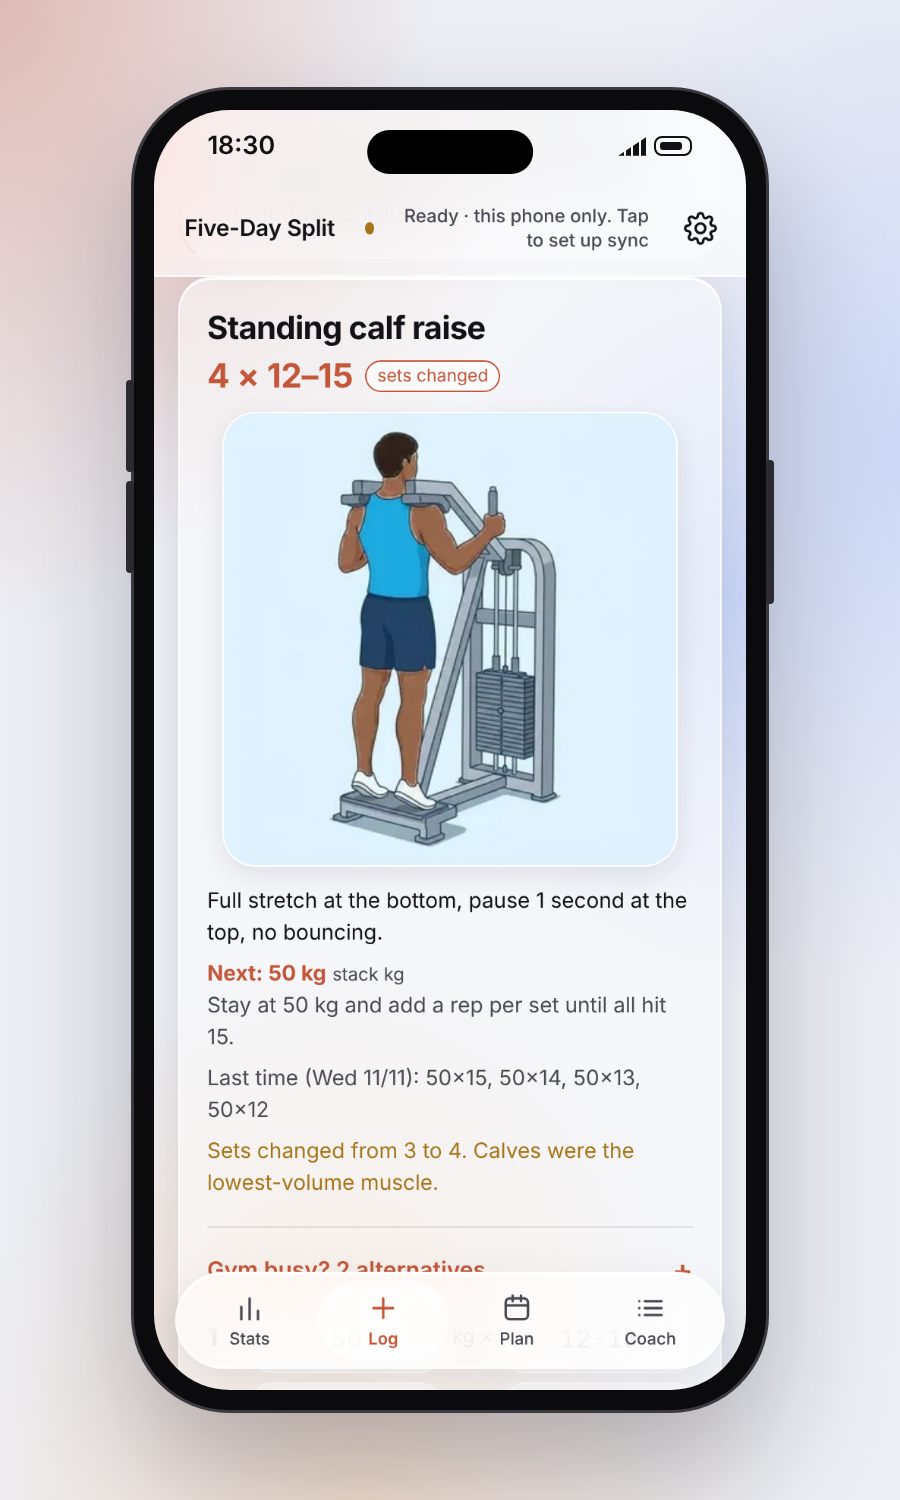
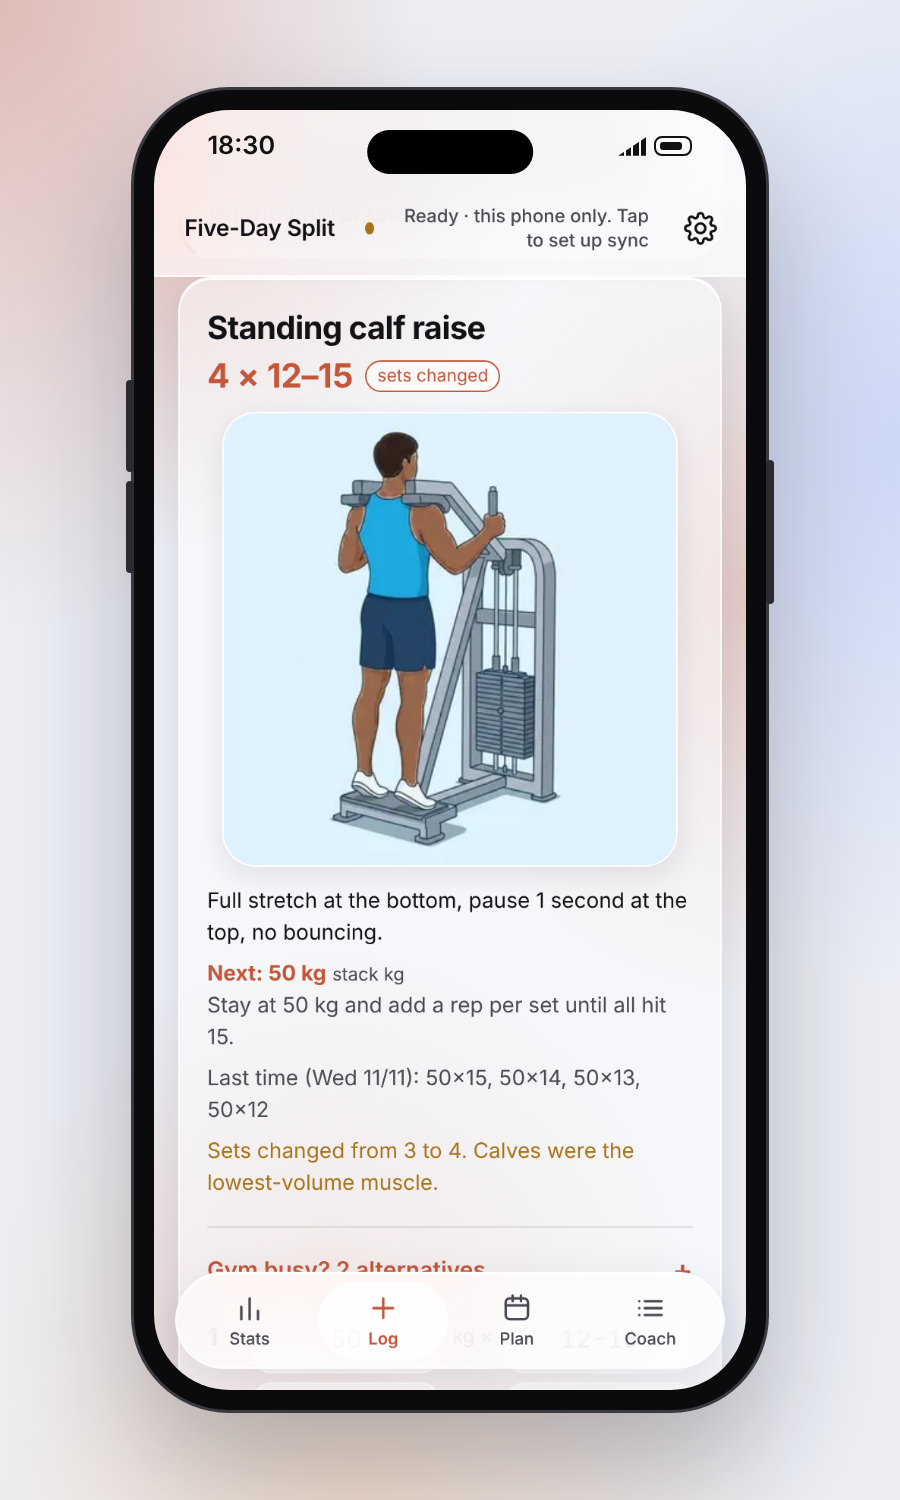
Liquid Glass: accent-coloured background gradient in every mode
Black and Light now use a gradient built from the selected accent
instead of fixed tints. Contrast test now covers all five accents;
dark muted text lightened to keep 4.5:1 with Graphite.

Claude-Session: https://claude.ai/code/session_01G4zxRqEfTkFnjpAiDAwh36

Changed region(s): [[0.7778, 0.2453, 0.84, 0.552]]

diff --git a/index.html b/index.html
@@ -10,7 +10,7 @@
 <meta name="apple-mobile-web-app-capable" content="yes"><meta name="mobile-web-app-capable" content="yes">
 <meta name="apple-mobile-web-app-title" content="Split"><meta name="apple-mobile-web-app-status-bar-style" content="default">
 <meta name="theme-color" id="tc" content="#faf9f5">
-<script src="theme.js?v=2026-11-18.124001"></script>
+<script src="theme.js?v=2026-11-18.124237"></script>
 <style>
 /* Layout: one narrow column, sticky header, bottom tab bar. Palette: graphite with indigo accent; heat uses its own red-to-green scale. */
 /* Look: warm paper, clay accent, serif display + system sans, quiet hairline cards (follows the iPhone light/dark setting) */
@@ -328,15 +328,15 @@ header .in h1{flex:none;white-space:nowrap}header .in #sync{flex:1 1 auto;min-wi
 html,html[data-scheme="light"]{--disp:var(--sans);--radius-card:22px;--radius-pill:999px;
   --bg:#eceef4;--surface:#fff;--ink:#121216;--muted:#4a4a53;--line:rgba(20,20,45,.10);--inset:rgba(255,255,255,.55);
   --glass:rgba(255,255,255,.52);--glass-bar:rgba(255,255,255,.66);--glass-edge:rgba(255,255,255,.78);--glass-hi:rgba(255,255,255,.95);--glass-sel:rgba(255,255,255,.72);--glass-shade:rgba(28,30,60,.10);
-  --wash-1:color-mix(in srgb,var(--acc,#c4573a) 34%,transparent);--wash-2:rgba(96,140,255,.26);--wash-3:rgba(255,186,120,.34);
+  --wash-1:color-mix(in srgb,var(--acc,#c4573a) 40%,transparent);--wash-2:color-mix(in srgb,var(--acc-clay,#c96442) 26%,transparent);--wash-3:color-mix(in srgb,color-mix(in srgb,var(--acc,#c4573a) 55%,#fff) 45%,transparent);
   --idle:rgba(20,20,45,.07);--body:rgba(20,20,45,.10);--blur:blur(24px) saturate(180%)}
-html[data-scheme="dark"]{--bg:#101116;--surface:#1c1d24;--ink:#f3f3f6;--muted:#a6a6b0;--line:rgba(255,255,255,.10);--inset:rgba(255,255,255,.07);
+html[data-scheme="dark"]{--bg:#101116;--surface:#1c1d24;--ink:#f3f3f6;--muted:#b4b4be;--line:rgba(255,255,255,.10);--inset:rgba(255,255,255,.07);
   --glass:rgba(38,39,50,.48);--glass-bar:rgba(30,31,40,.62);--glass-edge:rgba(255,255,255,.13);--glass-hi:rgba(255,255,255,.16);--glass-sel:rgba(255,255,255,.14);--glass-shade:rgba(0,0,0,.40);
-  --wash-1:color-mix(in srgb,var(--acc,#d97757) 30%,transparent);--wash-2:rgba(70,100,220,.22);--wash-3:rgba(200,120,70,.18);
+  --wash-1:color-mix(in srgb,var(--acc,#d97757) 36%,transparent);--wash-2:color-mix(in srgb,var(--acc-clay,#d97757) 24%,transparent);--wash-3:color-mix(in srgb,var(--acc-soft,#4a362d) 70%,transparent);
   --idle:rgba(255,255,255,.08);--body:rgba(255,255,255,.10)}
 html[data-scheme="black"]{--bg:#000;--surface:#0e0e10;--ink:#f3f3f6;--muted:#a6a6b0;--line:rgba(255,255,255,.10);--inset:rgba(255,255,255,.07);
   --glass:rgba(26,26,30,.58);--glass-bar:rgba(18,18,22,.70);--glass-edge:rgba(255,255,255,.11);--glass-hi:rgba(255,255,255,.12);--glass-sel:rgba(255,255,255,.13);--glass-shade:rgba(0,0,0,.6);
-  --wash-1:color-mix(in srgb,var(--acc,#d97757) 16%,transparent);--wash-2:rgba(70,100,220,.10);--wash-3:rgba(200,120,70,.08);
+  --wash-1:color-mix(in srgb,var(--acc,#d97757) 44%,transparent);--wash-2:color-mix(in srgb,var(--acc-clay,#d97757) 32%,transparent);--wash-3:color-mix(in srgb,var(--acc-soft,#4a362d) 80%,transparent);
   --idle:rgba(255,255,255,.08);--body:rgba(255,255,255,.10)}
 body{background:var(--bg)}
 body::before{content:"";position:fixed;inset:0;z-index:-1;pointer-events:none;
@@ -426,6 +426,6 @@ html[data-contrast="high"] body::before{display:none}
 <button data-tab="coach"><svg viewBox="0 0 24 24" aria-hidden="true"><path d="M8 7h12M8 12h12M8 17h12M4 7h.01M4 12h.01M4 17h.01"/></svg>Coach</button>
 </div></nav>
 <div id="toast" role="status" aria-live="polite"></div>
-<script src="split.js?v=2026-11-18.124001"></script>
+<script src="split.js?v=2026-11-18.124237"></script>
 </body>
 </html>

diff --git a/src/template.html b/src/template.html
@@ -328,15 +328,15 @@ header .in h1{flex:none;white-space:nowrap}header .in #sync{flex:1 1 auto;min-wi
 html,html[data-scheme="light"]{--disp:var(--sans);--radius-card:22px;--radius-pill:999px;
   --bg:#eceef4;--surface:#fff;--ink:#121216;--muted:#4a4a53;--line:rgba(20,20,45,.10);--inset:rgba(255,255,255,.55);
   --glass:rgba(255,255,255,.52);--glass-bar:rgba(255,255,255,.66);--glass-edge:rgba(255,255,255,.78);--glass-hi:rgba(255,255,255,.95);--glass-sel:rgba(255,255,255,.72);--glass-shade:rgba(28,30,60,.10);
-  --wash-1:color-mix(in srgb,var(--acc,#c4573a) 34%,transparent);--wash-2:rgba(96,140,255,.26);--wash-3:rgba(255,186,120,.34);
+  --wash-1:color-mix(in srgb,var(--acc,#c4573a) 40%,transparent);--wash-2:color-mix(in srgb,var(--acc-clay,#c96442) 26%,transparent);--wash-3:color-mix(in srgb,color-mix(in srgb,var(--acc,#c4573a) 55%,#fff) 45%,transparent);
   --idle:rgba(20,20,45,.07);--body:rgba(20,20,45,.10);--blur:blur(24px) saturate(180%)}
-html[data-scheme="dark"]{--bg:#101116;--surface:#1c1d24;--ink:#f3f3f6;--muted:#a6a6b0;--line:rgba(255,255,255,.10);--inset:rgba(255,255,255,.07);
+html[data-scheme="dark"]{--bg:#101116;--surface:#1c1d24;--ink:#f3f3f6;--muted:#b4b4be;--line:rgba(255,255,255,.10);--inset:rgba(255,255,255,.07);
   --glass:rgba(38,39,50,.48);--glass-bar:rgba(30,31,40,.62);--glass-edge:rgba(255,255,255,.13);--glass-hi:rgba(255,255,255,.16);--glass-sel:rgba(255,255,255,.14);--glass-shade:rgba(0,0,0,.40);
-  --wash-1:color-mix(in srgb,var(--acc,#d97757) 30%,transparent);--wash-2:rgba(70,100,220,.22);--wash-3:rgba(200,120,70,.18);
+  --wash-1:color-mix(in srgb,var(--acc,#d97757) 36%,transparent);--wash-2:color-mix(in srgb,var(--acc-clay,#d97757) 24%,transparent);--wash-3:color-mix(in srgb,var(--acc-soft,#4a362d) 70%,transparent);
   --idle:rgba(255,255,255,.08);--body:rgba(255,255,255,.10)}
 html[data-scheme="black"]{--bg:#000;--surface:#0e0e10;--ink:#f3f3f6;--muted:#a6a6b0;--line:rgba(255,255,255,.10);--inset:rgba(255,255,255,.07);
   --glass:rgba(26,26,30,.58);--glass-bar:rgba(18,18,22,.70);--glass-edge:rgba(255,255,255,.11);--glass-hi:rgba(255,255,255,.12);--glass-sel:rgba(255,255,255,.13);--glass-shade:rgba(0,0,0,.6);
-  --wash-1:color-mix(in srgb,var(--acc,#d97757) 16%,transparent);--wash-2:rgba(70,100,220,.10);--wash-3:rgba(200,120,70,.08);
+  --wash-1:color-mix(in srgb,var(--acc,#d97757) 44%,transparent);--wash-2:color-mix(in srgb,var(--acc-clay,#d97757) 32%,transparent);--wash-3:color-mix(in srgb,var(--acc-soft,#4a362d) 80%,transparent);
   --idle:rgba(255,255,255,.08);--body:rgba(255,255,255,.10)}
 body{background:var(--bg)}
 body::before{content:"";position:fixed;inset:0;z-index:-1;pointer-events:none;

diff --git a/tests/app.test.js b/tests/app.test.js
@@ -226,27 +226,35 @@ test('glass: wash sits behind the page and bars blur, cards do not',async()=>{
   await ctx.close();
 });
 
-test('glass: text contrast holds in light, dark and black',async()=>{
-  for(const mode of ['light','dark','black']){
-    const {ctx,page}=await openApp({hash:'stats',ls:theme(mode)});
+test('glass: text contrast holds in light, dark and black',{timeout:120000},async()=>{
+  for(const mode of ['light','dark','black'])for(const accent of ['clay','ocean','forest','violet','graphite']){
+    const {ctx,page}=await openApp({hash:'stats',ls:theme(mode,{accent})});
     const c=await tokenColors(page,['--bg','--ink','--muted','--glass','--wash-1','--wash-2','--wash-3']);
     for(const k in c)assert.ok(c[k],mode+' '+k+' resolves to a colour');
     for(const w of [null,c['--wash-1'],c['--wash-2'],c['--wash-3']]){
       const ground=w?over(w,c['--bg']):c['--bg'],surf=over(c['--glass'],ground);
       for(const ink of ['--ink','--muted']){
         const r=contrast(c[ink],surf);
-        assert.ok(r>=4.5,`${mode}: ${ink} on glass over ${w?'wash':'bg'} is ${r.toFixed(2)}:1`);
+        assert.ok(r>=4.5,`${mode}/${accent}: ${ink} on glass over ${w?'wash':'bg'} is ${r.toFixed(2)}:1`);
       }
     }
     await ctx.close();
   }
 });
 
-test('glass: black mode keeps a black background',async()=>{
-  const {ctx,page}=await openApp({hash:'stats',ls:theme('black')});
-  const c=await tokenColors(page,['--bg']);
-  assert.deepEqual(c['--bg'].slice(0,3).map(v=>Math.round(v*255)),[0,0,0]);
-  await ctx.close();
+test('glass: the background gradient follows the accent in every mode',async()=>{
+  for(const mode of ['light','dark','black']){
+    const got={};
+    for(const accent of ['clay','ocean']){
+      const {ctx,page}=await openApp({hash:'stats',ls:theme(mode,{accent})});
+      got[accent]=await tokenColors(page,['--wash-1','--wash-2','--wash-3']);
+      await ctx.close();
+    }
+    for(const w of ['--wash-1','--wash-2','--wash-3']){
+      assert.notDeepEqual(got.clay[w].slice(0,3).map(v=>v.toFixed(2)),got.ocean[w].slice(0,3).map(v=>v.toFixed(2)),mode+' '+w+' changes with the accent');
+      assert.ok(got.clay[w][3]>=(mode==='black'?.3:.2),mode+' '+w+' is visible (alpha '+got.clay[w][3]+')');
+    }
+  }
 });
 
 test('glass: high contrast is solid',async()=>{

diff --git a/split.js b/split.js
@@ -80,7 +80,7 @@ let sampleCache=null;
 const LS_CO='split-coach-v1',LS_CS='split-coach-shas-v1';
 const esc=s=>String(s==null?'':s).replace(/[&<>"']/g,c=>({'&':'&amp;','<':'&lt;','>':'&gt;','"':'&quot;',"'":'&#39;'}[c]));
 const LS_S='split-sessions-v2',LS_SA='split-sessions-at-v1',LS_Q='split-queue-v1',LS_C='split-sync-cfg-v1',LS_H='split-shas-v1',LS_L='split-lastsync-v1';
-const BUILD='2026-11-18.124001';
+const BUILD='2026-11-18.124237';
 const DATE_RE=/^\d{4}-\d{2}-\d{2}$/,FILE_RE=/^\d{4}-\d{2}-\d{2}\.json$/,REPO_RE=/^[\w.-]+\/[\w.-]+$/;
 const dayOf=id=>DAYS.find(x=>x.id===id)||null;
 const lsGet=(k,d)=>{try{const v=localStorage.getItem(k);return v?JSON.parse(v):d;}catch(e){return d;}};

diff --git a/sw.js b/sw.js
@@ -1,4 +1,4 @@
-const V='split-2026-11-18.124001';
+const V='split-2026-11-18.124237';
 const SHELL=['./','index.html','split.js','theme.js','manifest.webmanifest','icon-192.png','icon-512.png','apple-touch-icon.png'];
 self.addEventListener('install',e=>{e.waitUntil(caches.open(V).then(c=>c.addAll(SHELL)).then(()=>self.skipWaiting()));});
 self.addEventListener('activate',e=>{e.waitUntil(caches.keys().then(ks=>Promise.all(ks.filter(k=>k!==V).map(k=>caches.delete(k)))).then(()=>self.clients.claim()));});

diff --git a/README.md b/README.md
@@ -67,7 +67,7 @@ If your data repo has `coach/YYYY-MM-DD.json`, the Log tab shows its note for th
 
 ### Looks right in the gym
 
-Liquid Glass styling in Auto, Light, Dark or true-black mode, with five accent colours. High contrast turns the glass solid for bright gyms.
+Liquid Glass styling in Auto, Light, Dark or Black mode, with five accent colours. The background is a soft gradient in whichever accent you pick. High contrast turns the glass solid for bright gyms.
 
 </td>
 <td width="44%"><img src="docs/screenshots/dark.png" alt="The Stats tab in dark mode with the Ocean accent"></td>
